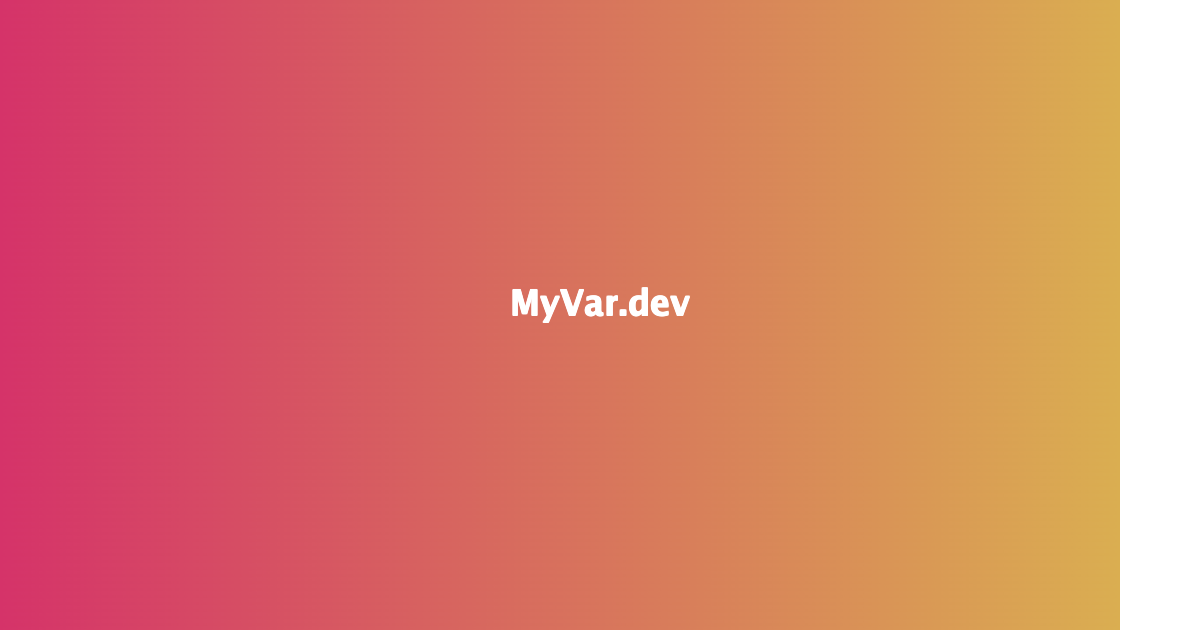
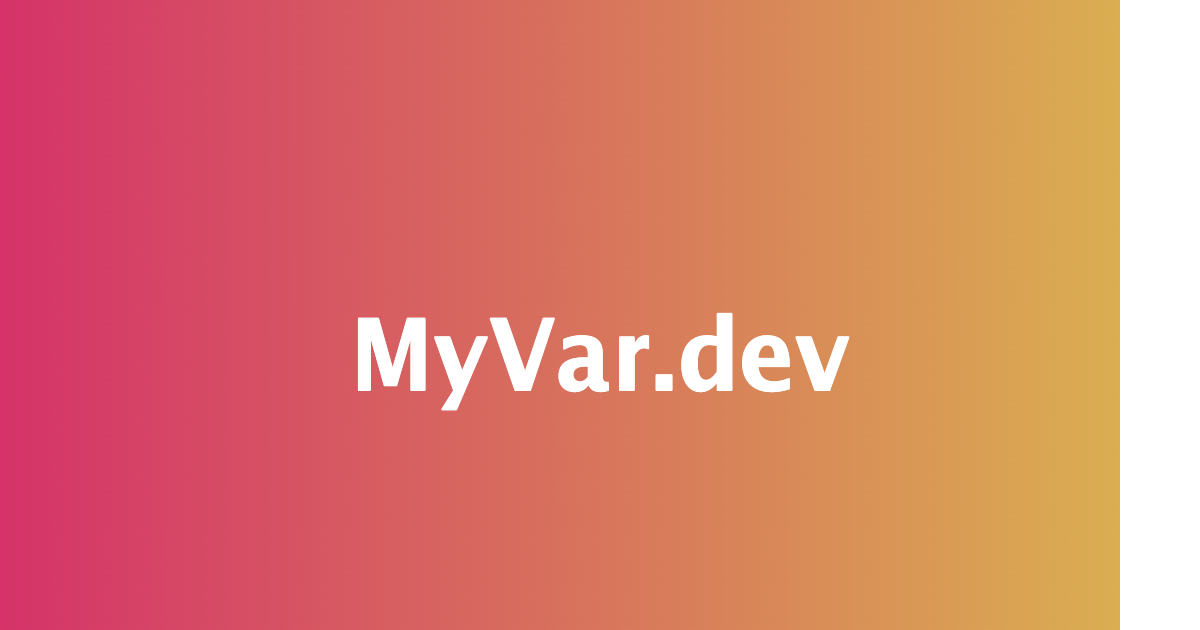
s

Changed region(s): [[0.2775, 0.4524, 0.7092, 0.6635]]

diff --git a/website/cmd/generate-og-images/main.go b/website/cmd/generate-og-images/main.go
@@ -101,9 +101,9 @@ func generateImage(title, outputPath string) {
 
 	// Create freetype context with antialiasing
 	c := freetype.NewContext()
-	c.SetDPI(144)
+	c.SetDPI(300)
 	c.SetFont(f)
-	c.SetFontSize(18)
+	c.SetFontSize(24)
 	c.SetClip(img.Bounds())
 	c.SetDst(img)
 	c.SetSrc(image.NewUniform(color.White))
@@ -113,16 +113,17 @@ func generateImage(title, outputPath string) {
 	lines := wrapText(title, maxWidth, c)
 	
 	// Calculate starting Y position for multiple lines
-	lineHeight := c.PointToFixed(30)
+	fontSize := 24.0
+	lineHeight := c.PointToFixed(fontSize * 1.5) // 1.5x font size for line height
 	totalHeight := lineHeight * fixed.Int26_6(len(lines)-1)
-	startY := fixed.I(height/2) - totalHeight/2
+	startY := fixed.I(height/2) - totalHeight/2 + lineHeight/2
 	
 	// Draw each line centered
 	for i, line := range lines {
 		// Dynamic centering: measure actual text width like CSS flexbox
 		face := truetype.NewFace(f, &truetype.Options{
-			Size: 18,
-			DPI:  144,
+			Size: 24,
+			DPI:  300,
 		})
 		textWidth := font.MeasureString(face, line)
 		actualWidth := int(textWidth >> 6)
@@ -161,6 +162,12 @@ func wrapText(text string, maxWidth int, c *freetype.Context) []string {
 		return []string{text}
 	}
 	
+	f, _ := truetype.Parse(gobold.TTF)
+	face := truetype.NewFace(f, &truetype.Options{
+		Size: 24,
+		DPI:  300,
+	})
+	
 	var lines []string
 	currentLine := ""
 	
@@ -171,8 +178,10 @@ func wrapText(text string, maxWidth int, c *freetype.Context) []string {
 		}
 		testLine += word
 		
-		// Force wrapping at 50 characters per line
-		if len(testLine) > 50 && currentLine != "" {
+		textWidth := font.MeasureString(face, testLine)
+		actualWidth := int(textWidth >> 6)
+		
+		if actualWidth > maxWidth && currentLine != "" {
 			lines = append(lines, currentLine)
 			currentLine = word
 		} else {
